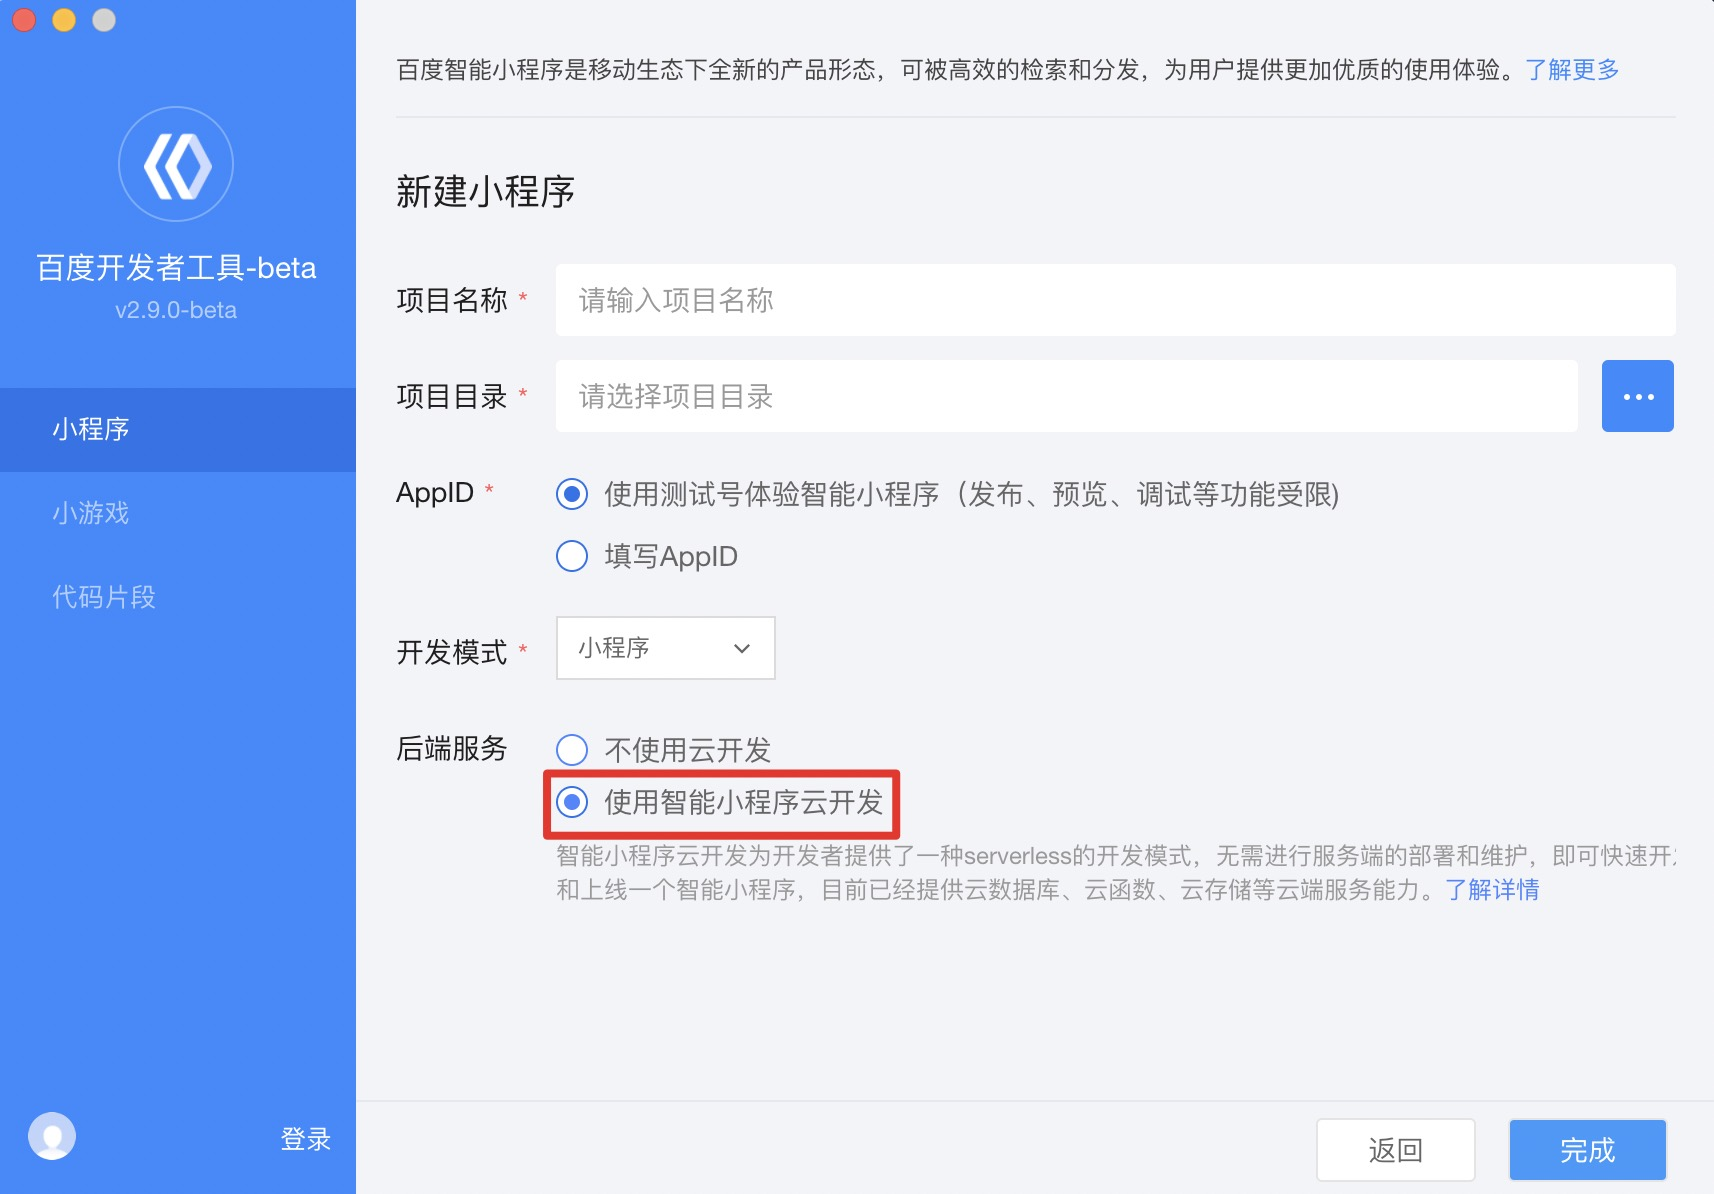
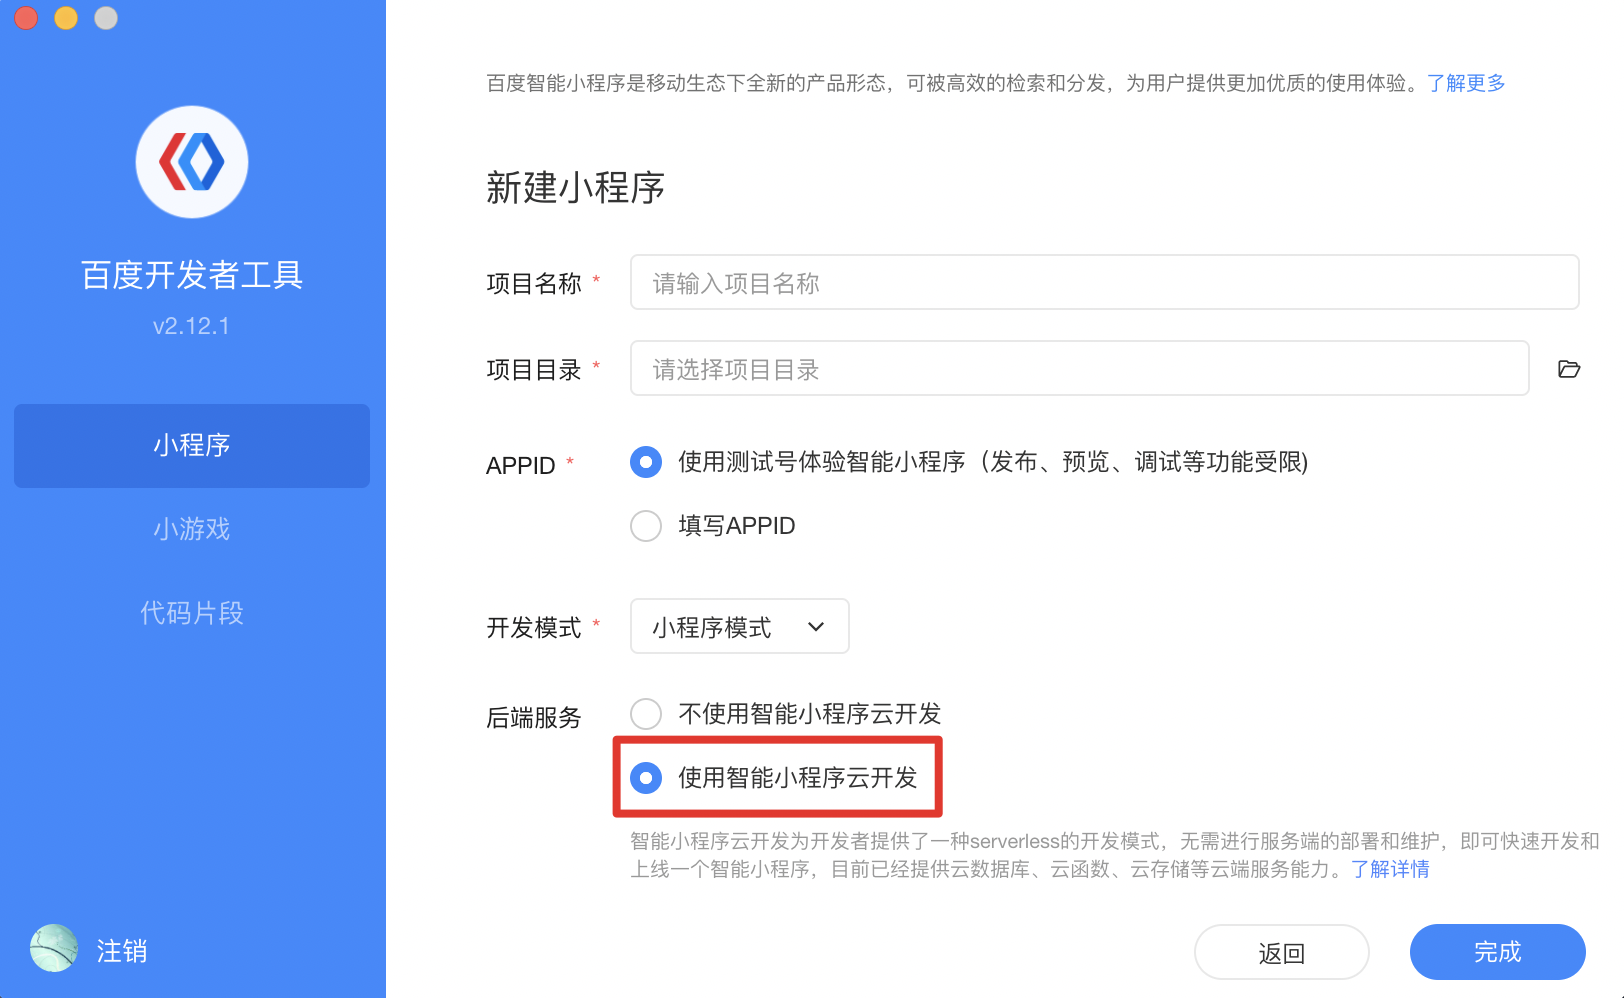
修改云开发快速开始相关内容，修改快速入门-安装开发者工具内容

diff --git a/source/_posts/develop/tutorial/install.md b/source/_posts/develop/tutorial/install.md
@@ -18,19 +18,19 @@ Beta 版本下载链接：[Windows 64](http://smartprogram.baidu.com/mappconsole
 
 开发者工具安装完成后，请按如下操作进行登录：
 1. 打开开发者工具，单击“新建”。
+ ![图片](../../../img/tool/tool3.png)
 2. 在弹出框内输入项目名称、项目目录和 AppID。
- ![图片](../../../img/tool/工具03.png)
+ ![图片](../../../img/tool/tool1.png)
 
 |名称|内容说明|
 |--|--|
 |项目名称|请使用英文为项目自定义命名。|
 |项目目录|**·**请新建或选择一个空的文件夹；<br>**·**如选择一个非空的文件夹，则会在该文件夹下自动生成一个与项目名称相同的文件夹。|
-|AppID|**·**如果您未注册 AppID，请单击“体验智能小程序”，体验部分功能，或进行<a href="https://smartprogram.baidu.com/docs/introduction/register/">智能小程序账号注册</a>;<br>**·**如果您已经完成 AppID 的注册，则请填写对应的 AppID。|
+|AppID|**·**如果您未注册 AppID，请选择默认的"使用测试号体验智能小程序";<br>**·**当您完成<a href="https://smartprogram.baidu.com/docs/introduction/register/">智能小程序账号注册</a>之后，则选择"填写APPID"并填写对应的 AppID。|
 
 3. 模拟器登录
 
-> 由于智能小程序已经开源，不同宿主小程序的开发者会使用不同的帐号登录模拟器进行开发；且在调试阶段开发者需要通过切换不同帐号的方式进行调试，因此模拟器为您提供单独登录的方式。
+如果选择新建一个智能小程序，开发者工具会默认创建一个小程序示例demo，点击demo首页的"获取头像昵称"按钮可弹出登录的二维码，进行扫码之后可完成智能小程序在模拟器中的登录。
+> 模拟器的登录状态和开发者工具的登录状态相互独立，因为智能小程序已经开源，不同宿主小程序的开发者会使用不同的帐号登录模拟器进行开发；且在调试阶段开发者需要通过切换不同帐号的方式进行调试，因此模拟器为您提供单独登录的方式。
 
-单击“获取头像昵称”区域，扫面界面弹出的二维码，即可完成模拟器登录。
- ![图片](../../../img/tool/模拟器.png)
-
+ ![图片](../../../img/tool/tool5.png)

diff --git a/source/_posts/develop/cloud/cloud_start.md b/source/_posts/develop/cloud/cloud_start.md
@@ -12,12 +12,14 @@ sidebar: cloud_start
 初次使用云开发小程序，您可在开发者工具中新建页面，依次填写**项目名称、项目目录、AppID**，并且在"后端服务"中勾选"使用智能小程序云开发"选项。
 
 对于已经开发中的智能小程序项目，也可跳过上面步骤，直接在开发者工具主界面的工具栏中，点击"云开发"按钮，开通并使用云开发服务。
-> 云开发服务从基础库 3.105.2 开始支持，从百度开发者工具 2.11.0-beta 开始支持。
+> 云开发服务从基础库 3.105.2 开始支持，从百度开发者工具 2.12.1 开始支持。
 
  ![图片](../../../img/cloud/cloud-init.jpg)
 ##  开通智能小程序云开发
 
 进入到百度开发者工具的主界面，点击工具栏中的"云开发"按钮，根据提示开通云开发服务。
+
+ ![图片](../../../img/cloud/cloud-init2.jpg)
 
 >* 确保当前开发者工具已经登录，并且已经填写了正确的 AppID ，否则无法开通云开发服务。
 >* 目前云开发仅支持小程序管理员进行开通申请，如果是小程序普通项目发起申请，请使用管理员帐号重新登录开发者工具。
@@ -29,6 +31,12 @@ sidebar: cloud_start
 ## 云开发功能体验
 
 百度开发者工具会默认初始化一个集成了云存储、数据库、云函数等api的云开发小程序示例，开发者可以在模拟器中体验效果，或者可以在百度APP(11.13或者以上版本)查看云开发小程序示例的效果。
+
+ ![图片](../../../img/cloud/cloud-init3.png)
+
+> 默认生成的云开发示例中，需要在app.js中`swan.cloud.init`函数中回填env字段，env描述着当前云环境id，云环境id需要在上一步骤中进行获取。如果不填写云环境id，开发者工具的console中会报错
+
+ ![图片](../../../img/cloud/cloud-init5.png)
 
 > 在默认生成的智能小程序源代码中，project.config.json 配置文件中新增了 cloudfunctionRoot 字段，表示云函数相关代码存放的路径。
 
